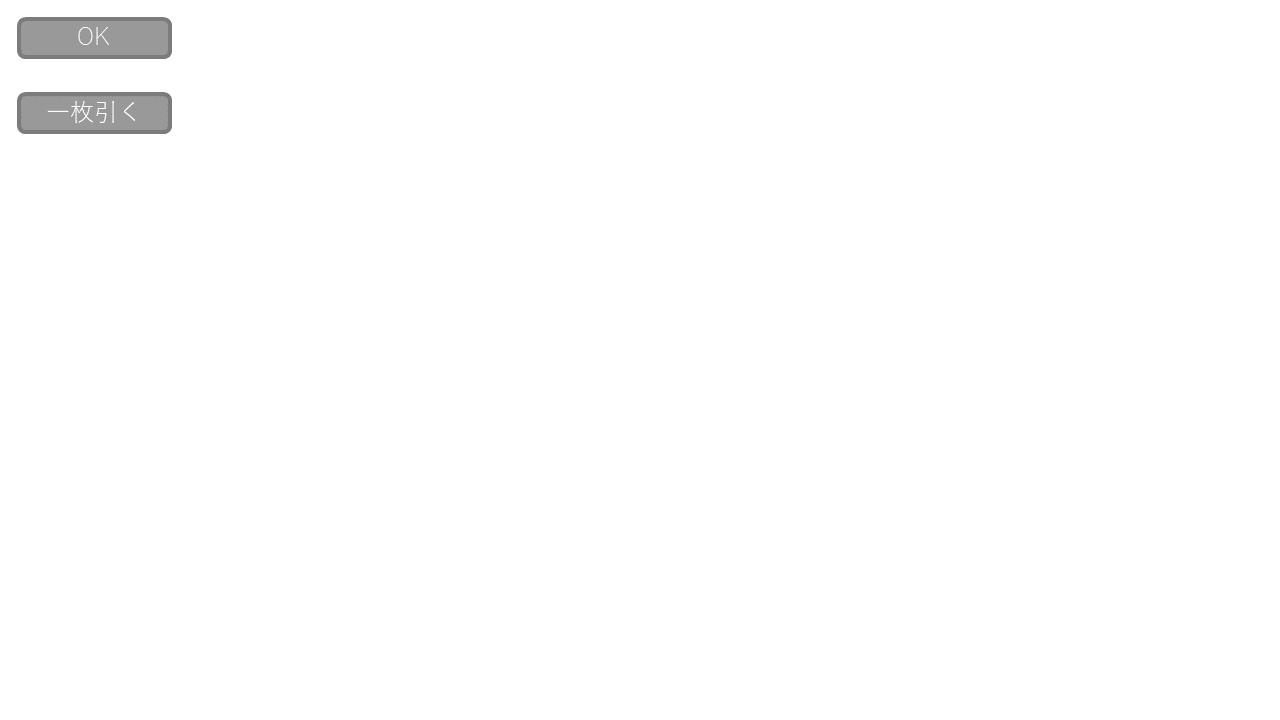
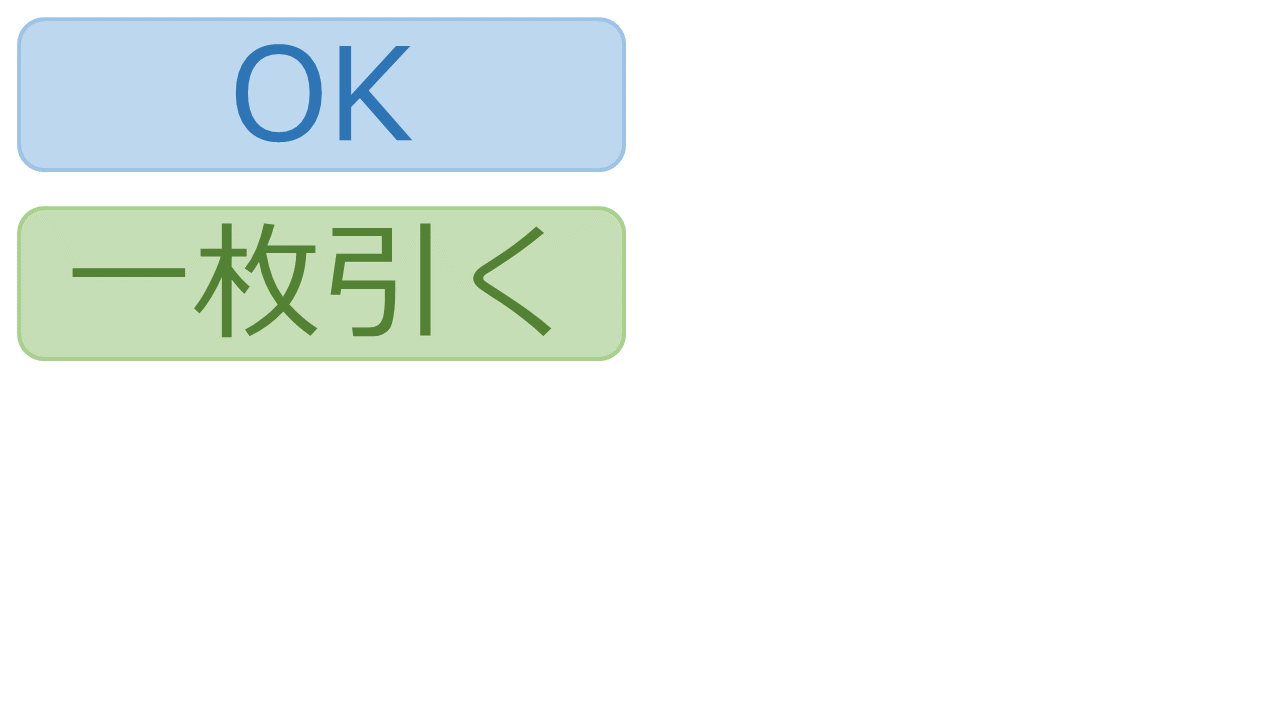
コミット

Changed region(s): [[0.0, 0.275, 0.5, 0.5194], [0.0, 0.0, 0.5, 0.2444]]

diff --git a/src/chemicalReaction/ObjectPool.java b/src/chemicalReaction/ObjectPool.java
@@ -29,6 +29,11 @@ public class ObjectPool
 	/** clearFieldCardsメソッドのカウンタ */
 	private int counterOfClearFieldCards = 0;
 
+	/** dealCardsメソッドのスイッチ */
+	private boolean isDealCards = false;
+	/** dealCardsメソッドのカウンタ */
+	private int counterOfClearDealCards = 0;
+
 	private boolean isCanPutCardToField;
 
 	ObjectPool()
@@ -59,6 +64,10 @@ public class ObjectPool
 		if (isClearFieldCards)
 		{
 			clearFieldCards();
+		}
+		if (isDealCards)
+		{
+			dealCards();
 		}
 		updateObjects(card, gc);
 	}
@@ -261,28 +270,43 @@ public class ObjectPool
 	}
 
 	/**
+	 * カードを配り始める<P>
+	 * 呼び出しは一回でいい
+	 */
+	public void startDealCards()
+	{
+		isDealCards = true;
+		counterOfClearDealCards = 0;
+	}
+
+	/**
 	 * カードを配る
 	 */
-	public void dealCards()
+	private void dealCards()
 	{
 		for (int i = 0; i < Table.HANDCARD_NUM; i++)
 		{
-			if ((Play.counter - 20) / (i + 1) == 10)
+			if ((counterOfClearFieldCards - 20) / (i + 1) == 10)
 			{
 				if (card[i].getPosition() != CardPosition.HANDCARD)
 				{
 					card[i].putdownCard(CardPosition.HANDCARD);
 				}
 			}
-			else if ((Play.counter - 150) / (i + 1) == 10)
+			else if ((counterOfClearFieldCards - 150) / (i + 1) == 10)
 			{
 				card[i].startRotationAuto();
+				if (i == card.length - 1)
+				{
+					isDealCards = false;
+				}
 			}
 		}
+		counterOfClearFieldCards++;
 	}
 
 	/**
-	 * 場札を一括消去する<P>
+	 * 場札を一括消去し始める<P>
 	 * 呼び出しは一回でいい
 	 */
 	public void startClearFieldCards()

diff --git a/src/chemicalReaction/Molecular.java b/src/chemicalReaction/Molecular.java
@@ -47,8 +47,6 @@ public enum Molecular
 	SO2("S-O-O", "二酸化硫黄"),
 	O3("O-O-O", "オゾン"),
 
-	CaO("Ca-O", "酸化カルシウム"),
-	CaF2("Ca-F-F", "フッ化カルシウム"),
 	AlF3("Al-F-F-F", "フッ化アルミニウム"),
 	NaF("Na-F", "フッ化ナトリウム"),
 	NaH("Na-H", "水素化ナトリウム"),
@@ -64,7 +62,20 @@ public enum Molecular
 	//MgI2("Mg-I-I", "ヨウ化マグネシウム"),
 	MgO("Mg-O", "酸化マグネシウム"),
 	MgS("Mg-S", "硫化マグネシウム"),
-	
+	KCl("K-Cl", "塩化カリウム"),
+	KF("K-F", "フッ化カリウム"),
+	KH("K-H", "水素化カリウム"),
+	//KI("K-I", "ヨウ化カリウム"),
+	K2O("K-K-O", "酸化カリウム"),
+	K2S("K-K-S", "硫化カリウム"),
+	KOH("K-O-H", "水酸化カリウム"),
+	KHS("K-H-S", "硫化水素カリウム"),
+	CaCl2("Ca-Cl-Cl", "塩化カルシウム"),
+	CaF2("Ca-F-F", "フッ化カルシウム"),
+	CaH2("Ca-H-H", "水素化カルシウム"),
+	CaO("Ca-O", "酸化カルシウム"),
+	CaS("Ca-S", "硫化カルシウム"),
+	//CaI2("Ca-I-I", "ヨウ化カルシウム"),
 	;
 
 	/** 分子式 */

diff --git a/src/chemicalReaction/ImageManager.java b/src/chemicalReaction/ImageManager.java
@@ -22,6 +22,10 @@ public class ImageManager
 	private static Image cardFrame;
 	/** ボタン */
 	private static Image button;
+	/** "OK"ボタン */
+	private static Image buttonOk;
+	/** "一枚引く"ボタン */
+	private static Image buttonDraw;
 	/** 切り札を出す場の枠 */
 	private static Image fieldFrame;
 	/** 手札を出す枠 */
@@ -48,7 +52,17 @@ public class ImageManager
 			SpriteSheet ss = new SpriteSheet("res/img/background.png", Card.WIDTH, Card.HEIGHT);
 			cardBack = ss.getSubImage(1, 0);
 			cardFrame = ss.getSubImage(0, 0);
-			button = ss.getSubImage(2, 0);
+			//button = ss.getSubImage(2, 0);
+		}
+		catch (SlickException e)
+		{
+			e.printStackTrace();
+		}
+
+		try
+		{
+			SpriteSheet ss = new SpriteSheet("res/img/button.png", 642, 189);
+			button = ss.getSubImage(0, 0);
 		}
 		catch (SlickException e)
 		{

diff --git a/src/chemicalReaction/Play.java b/src/chemicalReaction/Play.java
@@ -50,6 +50,7 @@ public class Play extends GameState
 	{
 		objectPool.init();
 		counter = 0;
+		objectPool.startDealCards();
 	}
 
 	/**
@@ -65,7 +66,6 @@ public class Play extends GameState
 			System.out.println(objectPool.checkFieldCardToMolecular().getSymbol());
 			objectPool.startClearFieldCards();
 		}
-		objectPool.dealCards();
 		objectPool.update(gc);
 
 		counter++;

diff --git a/src/chemicalReaction/Table.java b/src/chemicalReaction/Table.java
@@ -32,7 +32,7 @@ public class Table extends GameObject
 	//public static final int HANDCARD_WIDTH = 1247;
 
 	/** ボタンのx座標 */
-	public static final int BUTTON_X = 1210;
+	public static final int BUTTON_X = 10;//1210
 	/** ボタンのy座標 */
 	public static final int BUTTON_Y = 337;
 

diff --git a/src/chemicalReaction/Main.java b/src/chemicalReaction/Main.java
@@ -42,6 +42,7 @@ public class Main extends BasicGame
 		title = new Title();
 		play = new Play();
 		state = State.Play;
+		play.init(gc);
 	}
 
 	/**
